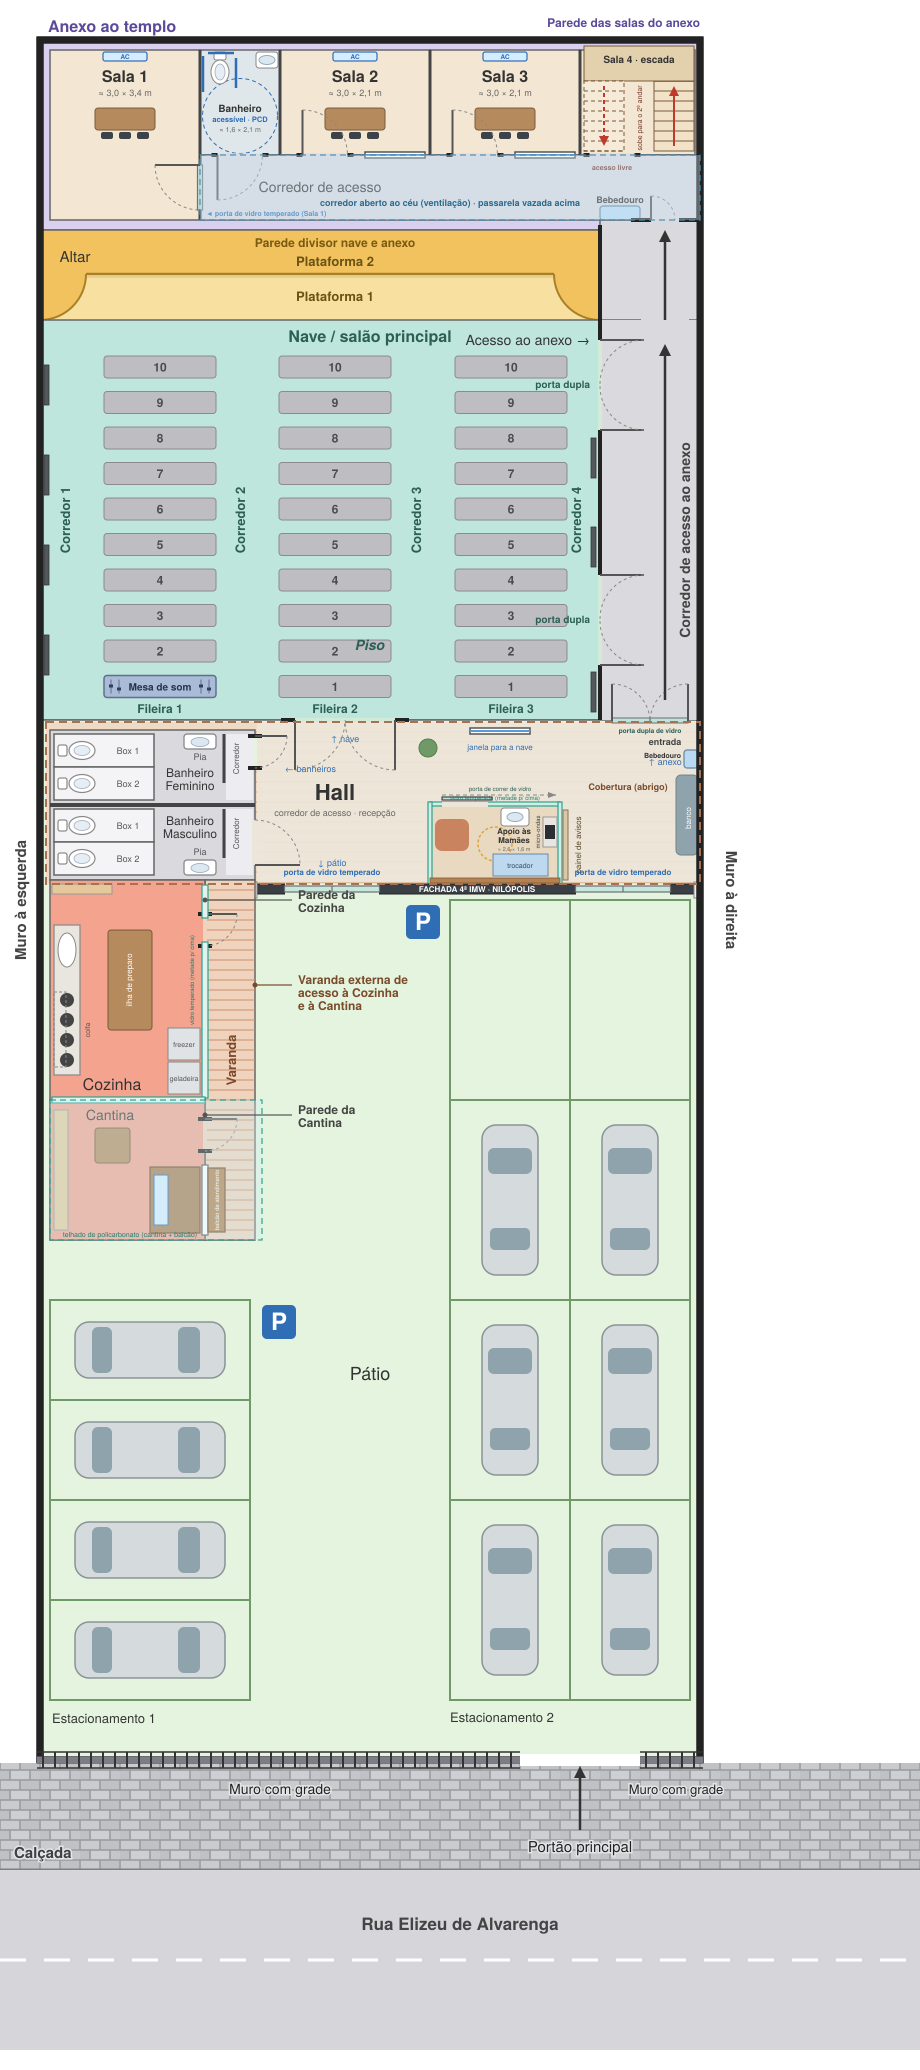
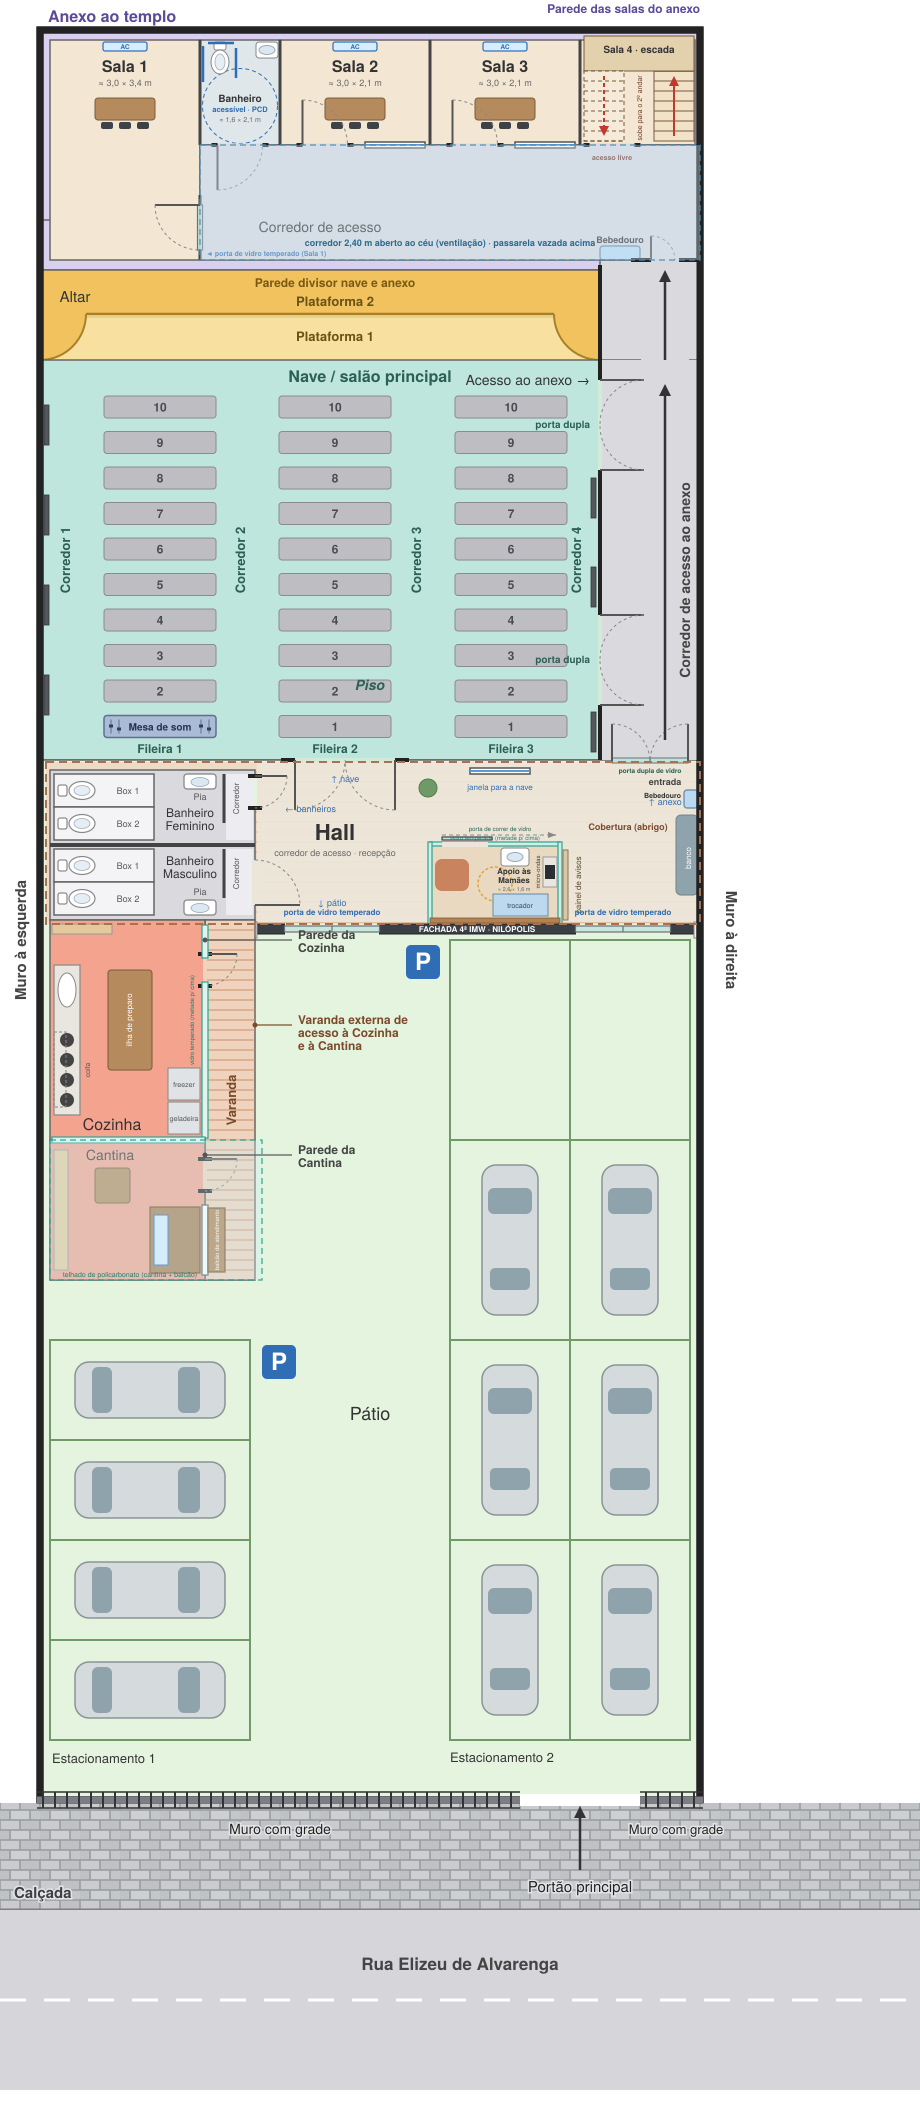
Maquete 3 etapa 49: corredor do anexo 2,40 m (salas recuadas) e 2o andar com paredes solidas na cor do terreo
Claude-Session: https://claude.ai/code/session_015gh4tS64wXyJ2ghbw66cFX

Changed region(s): [[0.0, 0.0, 1.0, 0.9585], [0.7913, 0.4019, 0.8217, 0.4638], [0.3957, 0.6493, 0.4261, 0.6802]]

diff --git a/projeto3/maquete.html b/projeto3/maquete.html
@@ -1025,10 +1025,23 @@
     car(780, 2015, Math.PI);      // lado oposto
   })();
 
+  // ---------- MAQUETE 3 (Etapa 49): corredor do anexo mais largo (1,40 m -> 2,40 m): as salas do anexo (térreo e 2º andar) recuam 1,00 m para o norte; nave e demais estruturas não mudam ----------
+  var DYP = 50, ZORIG = Z;
+  (function(){
+    var dyw = DYP * S, zlo = Z(30), zhi = Z(155) + 0.03, xlo = X(30), xhi = X(705);
+    root.children.slice().forEach(function(o){ var q = o.position; if (q.z >= zlo && q.z <= zhi && q.x >= xlo && q.x <= xhi && q.y < 4.5) q.z -= dyw; });
+    rect(40, 180, 700, 230, 0, 0.06, C.anexo, { cast: false });
+    rect(200, 105, 700, 155, 0.06, 0.04, C.corr, { cast: false });
+    rect(50, 105, 200, 155, 0.06, 0.04, C.salaAnexo, { cast: false });
+    vwall(200, 105, 155, BH);
+    vwall(40, -10, 40, BH, [], C.wall, 0.22); vwall(700, -10, 40, BH, [], C.wall, 0.22);
+  })();
+
   // ---------- MAQUETE 3: 2º ANDAR do anexo (x40..700, y40..225): Multiuso, WC, Biblioteca, Sala de Reuniões da Junta Diaconal, Copa e Recepção ----------
   (function(){
+    function Z(py){ return ZORIG(py - DYP); }   // coordenadas desta função = referência antiga do térreo (já recuada)
     var F = BH + 0.16, UH = 2.9, TOP = F + UH;
-    var dk = 0x23262a, wh = 0xf4f2ec, oak = 0xc4986a, walnut = 0x7a5a3a, steelc = 0xc9ced3;
+    var dk = 0x23262a, wh = C.wall, oak = 0xc4986a, walnut = 0x7a5a3a, steelc = 0xc9ced3;
     var frost = new THREE.MeshStandardMaterial({ color: 0xffffff, transparent: true, opacity: 0.62, roughness: 0.9 });
     var glowM = new THREE.MeshStandardMaterial({ color: 0xfff1c9, emissive: 0xffe2a8, emissiveIntensity: 0.9 });
     var rs = 7; function rnd(){ rs = (rs * 16807) % 2147483647; return rs / 2147483647; }
@@ -1038,45 +1051,36 @@
       if (horiz) box(len, yb - ya, th, color, X(mid), (ya + yb) / 2, Z(fixed), null, o); else box(th, yb - ya, len, color, X(fixed), (ya + yb) / 2, Z(mid), null, o);
     }
     function mull(horiz, fixed, a, b, ya, yb, step, th){ var n = Math.max(1, Math.round((b - a) * S / step)); for (var k = 0; k <= n; k++) ub(horiz, fixed, a + k * (b - a) / n, 0.05, ya, yb, th, dk); }
-    // paredes do 2º andar: 'ext' (faixa de vidro contínua), 'glass' (divisória de vidro com perfis pretos e faixa jateada), 'solid' (branca)
+    // paredes do 2º andar: mesma cor das salas do térreo (C.wall), sólidas; só as JANELAS são de vidro temperado (peitoril 1,10 m)
     function uwall(horiz, fixed, a1, a2, kind, gaps){
       gaps = (gaps || []).slice().sort(function(p, q){ return p.a - q.a; });
-      var th = kind === 'ext' ? 0.22 : kind === 'solid' ? 0.12 : 0.05;
-      function seg(a, b){
-        if (b - a <= 0.5) return;
-        var len = (b - a) * S, mid = (a + b) / 2;
-        if (kind === 'ext'){
-          ub(horiz, fixed, mid, len, F, F + 0.9, th, wh);
-          ub(horiz, fixed, mid, len, F + 0.9, TOP - 0.45, 0.04, 0, tempWinMat);
-          ub(horiz, fixed, mid, len, F + 0.9, F + 0.96, 0.12, dk); ub(horiz, fixed, mid, len, TOP - 0.51, TOP - 0.45, 0.12, dk);
-          mull(horiz, fixed, a, b, F + 0.9, TOP - 0.45, 1.8, 0.12);
-          ub(horiz, fixed, mid, len, TOP - 0.45, TOP, th, wh);
-        } else if (kind === 'solid'){ ub(horiz, fixed, mid, len, F, TOP, th, wh); }
-        else {
-          ub(horiz, fixed, mid, len, F, TOP, 0.03, 0, tempWinMat);
-          ub(horiz, fixed, mid, len, F + 1.15, F + 1.6, 0.036, 0, frost);
-          ub(horiz, fixed, mid, len, F, F + 0.05, th + 0.03, dk); ub(horiz, fixed, mid, len, TOP - 0.05, TOP, th + 0.03, dk);
-          mull(horiz, fixed, a, b, F, TOP, 1.3, th + 0.03);
-        }
-      }
+      var th = kind === 'ext' ? 0.22 : 0.12, met = 0x6b7075;
+      function seg(a, b){ if (b - a > 0.5) ub(horiz, fixed, (a + b) / 2, (b - a) * S, F, TOP, th, wh); }
       var cur = a1;
       gaps.forEach(function(g){
         seg(cur, g.a);
         var len = (g.b - g.a) * S, mid = (g.a + g.b) / 2;
-        if (kind === 'glass') ub(horiz, fixed, mid, len, F + 2.1, TOP, 0.03, 0, tempWinMat); else ub(horiz, fixed, mid, len, F + 2.1, TOP, th, wh);
-        ub(horiz, fixed, mid, len, F + 2.08, F + 2.14, 0.08, dk);
-        if (g.leaf === 'white'){ ub(horiz, fixed, mid, len - 0.04, F, F + 2.08, 0.04, wh); ub(horiz, fixed, mid + 0.3 / S, 0.03, F + 0.95, F + 1.25, 0.08, dk); }
-        else {
-          ub(horiz, fixed, mid, len - 0.04, F + 0.02, F + 2.08, 0.012, 0, tempWinMat);
-          [-1, 1].forEach(function(s){ ub(horiz, fixed, mid + s * (len / 2 - 0.02) / S, 0.04, F, F + 2.1, 0.05, dk); });
-          ub(horiz, fixed, mid, len, F, F + 0.05, 0.05, dk); ub(horiz, fixed, mid + 0.3 / S, 0.025, F + 0.9, F + 1.5, 0.07, steelc);
+        if (g.t === 'win'){
+          var y0 = F + 1.1, y1 = F + 2.3;
+          ub(horiz, fixed, mid, len, F, y0, th, wh); ub(horiz, fixed, mid, len, y1, TOP, th, wh);
+          ub(horiz, fixed, mid, len - 0.04, y0 + 0.03, y1 - 0.03, 0.012, 0, tempWinMat);
+          ub(horiz, fixed, mid, len, y0, y0 + 0.05, 0.08, met); ub(horiz, fixed, mid, len, y1 - 0.05, y1, 0.08, met);
+          [-1, 1].forEach(function(s){ ub(horiz, fixed, mid + s * (len / 2 - 0.025) / S, 0.05, y0, y1, 0.08, met); });
+          if (len > 0.9) ub(horiz, fixed, mid, 0.04, y0, y1, 0.08, met);
+          ub(horiz, fixed, mid, len + 0.1, y0 - 0.04, y0, th + 0.1, 0xb9bcbe);
+        } else {
+          ub(horiz, fixed, mid, len, F + 2.1, TOP, th, wh);
+          ub(horiz, fixed, mid, len - 0.04, F, F + 2.08, 0.04, walnut);
+          ub(horiz, fixed, mid + 0.3 / S, 0.03, F + 0.95, F + 1.1, 0.08, steelc);
         }
         cur = g.b;
       });
       seg(cur, a2);
     }
+    function W(c, w){ return { a: c - (w || 60) / 2, b: c + (w || 60) / 2, t: 'win' }; }
+    function D(a, b){ return { a: a, b: b, t: 'door' }; }
     // laje do piso (com o vão da escada) e acabamentos
-    var xa = X(40) - 0.11, xb = X(700) + 0.11, za = Z(40) - 0.11, zb = Z(225) + 0.09;
+    var xa = X(40) - 0.11, xb = X(700) + 0.11, za = Z(40) - 0.11, zb = Z(275) + 0.09;
     var hx0 = X(580) + 0.08, hx1 = hx0 + 0.8, hz1 = Z(155) - 0.08, hz0 = Z(40) + 0.11 + (hz1 - (Z(40) + 0.11) - 1.4);
     var xm = X(200) + 0.06, zs = Z(155) + 0.06, zp = Z(203);   // MAQUETE 3 (Etapa 45): o corredor do anexo (x200..700, y155..225) fica ABERTO (ventilação/iluminação); só passarela vazada
     [[xa, xm, za, zb], [xm, xb, za, hz0], [xm, hx0, hz0, zs], [hx1, xb, hz0, zs], [hx0, hx1, hz1, zs]].forEach(function(q){ box(q[1] - q[0], 0.12, q[3] - q[2], 0xd8d4cb, (q[0] + q[1]) / 2, F - 0.06, (q[2] + q[3]) / 2); });
@@ -1091,15 +1095,16 @@
       for (var gp = 0; gp <= 8; gp++) box(0.04, 1.1, 0.04, dk, gx0 + gp * gl / 8, F + 0.55, gz1);
     })();
     function fl(x1, y1, x2, y2, col){ box((x2 - x1) * S, 0.02, (y2 - y1) * S, col, X((x1 + x2) / 2), F + 0.01, Z((y1 + y2) / 2), null, { cast: false }); }
-    fl(40, 40, 200, 225, 0xc4986a); fl(200, 40, 280, 155, 0xcfd8dc); fl(280, 40, 430, 155, 0x9aa0a6); fl(430, 40, 580, 155, 0xa57c52);
-    fl(580, 40, 700, 81, 0xe3e1db); fl(624, 81, 700, 155, 0xe3e1db);
+    fl(40, 40, 200, 275, C.salaAnexo); fl(200, 40, 280, 155, 0xdfe7ea); fl(280, 40, 430, 155, C.salaAnexo); fl(430, 40, 580, 155, C.salaAnexo);
+    fl(580, 40, 700, 81, 0xe8d9c0); fl(624, 81, 700, 155, 0xe8d9c0);
     // paredes
-    uwall(true, 40, 40, 700, 'ext'); uwall(true, 225, 40, 200, 'ext'); uwall(false, 40, 40, 225, 'ext'); uwall(false, 700, 40, 155, 'ext');
-    uwall(false, 200, 40, 155, 'solid'); uwall(false, 200, 155, 225, 'glass', [{ a: 158, b: 203 }]);
-    uwall(true, 155, 200, 280, 'solid', [{ a: 217.5, b: 262.5, leaf: 'white' }]); uwall(false, 280, 40, 155, 'solid');
-    uwall(true, 155, 280, 430, 'glass', [{ a: 332.5, b: 377.5 }]); uwall(false, 430, 40, 155, 'glass');
-    uwall(true, 155, 430, 580, 'glass', [{ a: 482.5, b: 527.5 }]); uwall(false, 580, 40, 155, 'glass');
-    uwall(false, 624, 81, 155, 'glass'); uwall(true, 155, 624, 700, 'glass', [{ a: 632, b: 677 }]);
+    uwall(true, 40, 40, 700, 'ext', [W(85), W(155), W(240, 30), W(355), W(505), W(650)]);
+    uwall(false, 40, 40, 275, 'ext', [W(70), W(140), W(210)]); uwall(true, 275, 40, 200, 'ext', [W(85), W(155)]); uwall(false, 700, 40, 155, 'ext', [W(110)]);
+    uwall(false, 200, 40, 155, 'int'); uwall(false, 200, 155, 275, 'int', [D(158, 203)]);
+    uwall(true, 155, 200, 280, 'int', [D(217.5, 262.5)]); uwall(false, 280, 40, 155, 'int');
+    uwall(true, 155, 280, 430, 'int', [D(300, 345), W(395)]); uwall(false, 430, 40, 155, 'int');
+    uwall(true, 155, 430, 580, 'int', [D(450, 495), W(540)]); uwall(false, 580, 40, 155, 'int');
+    uwall(false, 624, 81, 155, 'int'); uwall(true, 155, 624, 700, 'int', [D(632, 677)]);
     // guarda-corpo de vidro no lado norte do vão da escada
     box(hx1 - hx0, 1.0, 0.03, 0, (hx0 + hx1) / 2, F + 0.5, hz0, null, { material: tempWinMat, cast: false }); box(hx1 - hx0, 0.04, 0.05, dk, (hx0 + hx1) / 2, F + 1.0, hz0);
     // cobertura moderna (some junto com o telhado): forro, laje com beiral, platibanda grafite, spots
@@ -1107,9 +1112,9 @@
       var ox1 = x1 - (nW ? 0.35 : 0), ox2 = x2 + (nE ? 0.35 : 0), oz1 = z1 - 0.35, oz2 = z2 + (nS ? 0.35 : 0), cxx = (ox1 + ox2) / 2, czz = (oz1 + oz2) / 2;
       box(x2 - x1, 0.1, z2 - z1, 0xffffff, (x1 + x2) / 2, TOP + 0.05, (z1 + z2) / 2, roofGroup, { cast: false });
       box(ox2 - ox1, 0.18, oz2 - oz1, 0xe9e6df, cxx, TOP + 0.19, czz, roofGroup);
-      box(ox2 - ox1, 0.32, 0.06, dk, cxx, TOP + 0.19, oz1, roofGroup); box(ox2 - ox1, 0.32, 0.06, dk, cxx, TOP + 0.19, oz2, roofGroup);
-      if (nW) box(0.06, 0.32, oz2 - oz1, dk, ox1, TOP + 0.19, czz, roofGroup);
-      if (nE) box(0.06, 0.32, oz2 - oz1, dk, ox2, TOP + 0.19, czz, roofGroup);
+      box(ox2 - ox1, 0.32, 0.06, 0xe4e0d6, cxx, TOP + 0.19, oz1, roofGroup); box(ox2 - ox1, 0.32, 0.06, 0xe4e0d6, cxx, TOP + 0.19, oz2, roofGroup);
+      if (nW) box(0.06, 0.32, oz2 - oz1, 0xe4e0d6, ox1, TOP + 0.19, czz, roofGroup);
+      if (nE) box(0.06, 0.32, oz2 - oz1, 0xe4e0d6, ox2, TOP + 0.19, czz, roofGroup);
     }
     cobertura(xa, xm, za, zb, true, true, true, false); cobertura(xm, xb, za, zs, false, false, false, true);
     [[85, 70], [85, 140], [85, 200], [160, 70], [160, 140], [160, 200], [240, 98], [320, 70], [390, 70], [320, 120], [390, 120], [470, 70], [540, 70], [470, 125], [540, 125], [602, 60], [660, 60], [660, 120]].forEach(function(q){
@@ -1155,7 +1160,7 @@
     // placa luminosa na fachada do Copa, voltada para a passarela
     var sgn = new THREE.Mesh(new THREE.PlaneGeometry(1.4, 0.34), new THREE.MeshBasicMaterial({ map: signTex('JUNTA DIACONAL · 2º ANDAR', 1024, 256, '#23262a', '#fff1c9', 80) })); sgn.position.set(X(662), F + 2.5, Z(155) + 0.07); root.add(sgn);
     // rótulos dos ambientes (aparecem com o botão Nomes)
-    label('Sala Multiuso', 120, 130, 5.4, 2.0); label('WC', 240, 98, 5.0, 0.9); label('Biblioteca', 355, 98, 5.4, 1.7); label('Sala de Reuniões', 505, 98, 5.4, 2.2); label('Copa', 662, 60, 5.0, 1.0); label('Passarela (corredor aberto)', 450, 178, 4.6, 2.6);
+    label('Sala Multiuso', 120, 80, 5.4, 2.0); label('WC', 240, 48, 5.0, 0.9); label('Biblioteca', 355, 48, 5.4, 1.7); label('Sala de Reuniões', 505, 48, 5.4, 2.2); label('Copa', 662, 10, 5.0, 1.0); label('Passarela (corredor aberto)', 450, 130, 4.6, 2.6);
   })();
 
   // ---------- Telhados ----------
@@ -1283,16 +1288,16 @@
     var lajeMat = new THREE.MeshStandardMaterial({ color: 0xffffff, roughness: 1, emissive: 0x8c8c88 });
     [[50, 200], [200, 280], [280, 430], [430, 580]].forEach(function(r){
       var cx = (r[0] + r[1]) / 2;
-      box((r[1] - r[0]) * S, 0.08, 105 * S, 0, X(cx), BH - 0.04, Z(102.5), forroGroup, { material: lajeMat, cast: false });
-      lampRound(cx, 100);
+      box((r[1] - r[0]) * S, 0.08, 105 * S, 0, X(cx), BH - 0.04, Z(102.5 - DYP), forroGroup, { material: lajeMat, cast: false });
+      lampRound(cx, 100 - DYP);
     });
     // MAQUETE 3: forro da Sala 4 com o vão da escada (lance oeste)
     (function(){
-      var xa = X(580), xb = X(695), zn = Z(50), zs = Z(155), hx1 = X(580) + 0.08, hx2 = hx1 + 0.8, hz0 = Z(40) + 0.11 + ((Z(155) - 0.08) - (Z(40) + 0.11) - 1.4);
+      var xa = X(580), xb = X(695), zn = Z(50 - DYP), zs = Z(155 - DYP), hx1 = X(580) + 0.08, hx2 = hx1 + 0.8, hz0 = Z(40 - DYP) + 0.11 + ((Z(155 - DYP) - 0.08) - (Z(40 - DYP) + 0.11) - 1.4);
       [[xa, xb, zn, hz0], [hx2, xb, hz0, zs], [xa, hx1, hz0, zs]].forEach(function(q){ box(q[1] - q[0], 0.08, q[3] - q[2], 0, (q[0] + q[1]) / 2, BH - 0.04, (q[2] + q[3]) / 2, forroGroup, { material: lajeMat, cast: false }); });
       lampRound(637, 100);
     })();
-    isopor(50, 155, 200, 220); lampRound(125, 188);   // MAQUETE 3 (Etapa 45): só a Sala 1 tem forro aí; o corredor do anexo (x200..700) é aberto ao céu
+    isopor(50, 105, 200, 220); lampRound(125, 188); lampRound(125, 130);   // MAQUETE 3 (Etapa 45): só a Sala 1 tem forro aí; o corredor do anexo (x200..700) é aberto ao céu
   })();
 
   // ---------- Árvores ----------
@@ -1319,7 +1324,7 @@
     labelGroup.add(sp);
   }
   label('Anexo ao templo', 370, 100, 6.4, 4.0);
-  label('Sala 1', 125, 100, 4.0, 1.7); label('Banheiro PCD', 240, 100, 3.4, 1.9); label('Sala 2', 355, 100, 4.0, 1.7); label('Sala 3', 505, 100, 4.0, 1.7); label('Sala 4 · escada', 637, 100, 4.0, 1.9); label('Bebedouro (anexo)', 620, 190, 4.0, 1.9);
+  label('Sala 1', 125, 50, 4.0, 1.7); label('Banheiro PCD', 240, 50, 3.4, 1.9); label('Sala 2', 355, 50, 4.0, 1.7); label('Sala 3', 505, 50, 4.0, 1.7); label('Sala 4 · escada', 637, 50, 4.0, 1.9); label('Bebedouro (anexo)', 620, 190, 4.0, 1.9);
   label('Altar', 160, 250, 2.6, 1.5); label('Plataforma 2', 335, 252, 2.3, 2.6); label('Plataforma 1', 335, 297, 1.6, 2.6);
   label('Bateria', 560, 255, 3.1, 1.5); label('Teclado', 110, 258, 3.0, 1.5); label('Guitarra', 262, 255, 3.0, 1.5); label('Baixo', 292, 255, 3.4, 1.3); label('Microfones', 375, 262, 3.0, 2.0);
   label('Piso da nave', 370, 560, 1.4, 2.6);
@@ -1373,22 +1378,22 @@
     { id: 'varanda', name: 'Varanda', g: 'Pátio (ambientes)', pos: [-2.8, 1.65, 0.0], tgt: [-2.8, 1.5, 7.0], roof: true, labels: false, fp: true },
     { id: 'a2geral', name: '2º andar · visão de cima', g: '2º andar', pos: [1.0, 16, -7.0], tgt: [0.6, 3.2, -15.6], roof: false, labels: true },
     { id: 'a2ext', name: '2º andar · volume externo', g: '2º andar', pos: [5.5, 9.5, -4.5], tgt: [0.5, 4.5, -15.0], roof: true, labels: false },
-    { id: 'a2cor', name: '2º andar · passarela vazada', g: '2º andar', pos: [-3.0, 4.75, -14.42], tgt: [6.2, 4.5, -14.42], roof: true, labels: false, fp: true },
-    { id: 'corabe', name: 'Anexo · corredor aberto ao céu', g: 'Anexo', pos: [-2.9, 1.65, -14.4], tgt: [4.5, 3.4, -14.4], roof: true, labels: false, fp: true },
-    { id: 'a2reun', name: '2º andar · Sala de Reuniões', g: '2º andar', pos: [1.5, 4.8, -16.1], tgt: [3.9, 4.3, -16.1], roof: true, labels: false, fp: true },
-    { id: 'a2bib', name: '2º andar · Biblioteca', g: '2º andar', pos: [0.9, 4.8, -14.9], tgt: [-1.0, 4.2, -16.8], roof: true, labels: false, fp: true },
-    { id: 'a2mult', name: '2º andar · Sala Multiuso', g: '2º andar', pos: [-3.6, 4.8, -14.2], tgt: [-5.4, 4.2, -16.6], roof: true, labels: false, fp: true },
-    { id: 'a2esc', name: '2º andar · chegada da escada', g: '2º andar', pos: [4.7, 4.8, -13.9], tgt: [4.7, 4.3, -15.6], roof: true, labels: false, fp: true },
+    { id: 'a2cor', name: '2º andar · passarela vazada', g: '2º andar', pos: [-3.0, 4.75, -15.42], tgt: [6.2, 4.5, -15.42], roof: true, labels: false, fp: true },
+    { id: 'corabe', name: 'Anexo · corredor aberto ao céu', g: 'Anexo', pos: [-2.9, 1.65, -14.9], tgt: [4.5, 3.4, -14.9], roof: true, labels: false, fp: true },
+    { id: 'a2reun', name: '2º andar · Sala de Reuniões', g: '2º andar', pos: [1.5, 4.8, -17.1], tgt: [3.9, 4.3, -17.1], roof: true, labels: false, fp: true },
+    { id: 'a2bib', name: '2º andar · Biblioteca', g: '2º andar', pos: [0.9, 4.8, -15.9], tgt: [-1.0, 4.2, -17.8], roof: true, labels: false, fp: true },
+    { id: 'a2mult', name: '2º andar · Sala Multiuso', g: '2º andar', pos: [-3.6, 4.8, -15.2], tgt: [-5.4, 4.2, -17.6], roof: true, labels: false, fp: true },
+    { id: 'a2esc', name: '2º andar · chegada da escada', g: '2º andar', pos: [4.7, 4.8, -14.9], tgt: [4.7, 4.3, -16.6], roof: true, labels: false, fp: true },
     { id: 'cozvidro', name: 'Cozinha (vidro, da varanda)', g: 'Pátio (ambientes)', pos: [-0.9, 1.7, 1.9], tgt: [-3.3, 1.9, 1.9], roof: true, labels: false, fp: true },
     { id: 'cantinaf', name: 'Cantina (balcão, da varanda)', g: 'Pátio (ambientes)', pos: [-0.8, 1.7, 5.2], tgt: [-3.3, 1.5, 6.0], roof: true, labels: false, fp: true },
     { id: 'cozinhae', name: 'Cozinha', g: 'Pátio (ambientes)', pos: [-3.5, 1.65, 0.5], tgt: [-6.0, 1.1, 3.4], roof: true, labels: false, fp: true },
     { id: 'cantinae', name: 'Cantina', g: 'Pátio (ambientes)', pos: [-3.5, 1.65, 4.3], tgt: [-6.2, 1.1, 6.4], roof: true, labels: false, fp: true },
-    { id: 'anexocorr', name: 'Corredor do anexo (leste-oeste)', g: 'Anexo', pos: [-5.8, 1.65, -14.24], tgt: [6.4, 1.5, -14.24], roof: true, labels: false, fp: true },
-    { id: 'sala1a', name: 'Sala 1 (anexo)', g: 'Anexo', pos: [-3.8, 1.65, -15.04], tgt: [-6.2, 1.3, -16.5], roof: true, labels: false, fp: true },
-    { id: 'wcanexo', name: 'Banheiro acessível (anexo)', g: 'Anexo', pos: [-2.0, 1.65, -15.04], tgt: [-3.1, 1.1, -16.6], roof: true, labels: false, fp: true },
-    { id: 'sala2a', name: 'Sala 2 (anexo)', g: 'Anexo', pos: [0.7, 1.65, -15.04], tgt: [-1.5, 1.3, -16.5], roof: true, labels: false, fp: true },
-    { id: 'apoiofp', name: 'Sala 4 · escada (anexo)', g: 'Anexo', pos: [4.9, 1.65, -15.15], tgt: [5.9, 1.3, -16.9], roof: true, labels: false, fp: true },
-    { id: 'sala3a', name: 'Sala 3 (anexo)', g: 'Anexo', pos: [3.8, 1.65, -15.04], tgt: [1.5, 1.3, -16.5], roof: true, labels: false, fp: true },
+    { id: 'anexocorr', name: 'Corredor do anexo (leste-oeste)', g: 'Anexo', pos: [-5.8, 1.65, -14.64], tgt: [6.4, 1.5, -14.64], roof: true, labels: false, fp: true },
+    { id: 'sala1a', name: 'Sala 1 (anexo)', g: 'Anexo', pos: [-3.8, 1.65, -16.04], tgt: [-6.2, 1.3, -17.5], roof: true, labels: false, fp: true },
+    { id: 'wcanexo', name: 'Banheiro acessível (anexo)', g: 'Anexo', pos: [-2.0, 1.65, -16.04], tgt: [-3.1, 1.1, -17.6], roof: true, labels: false, fp: true },
+    { id: 'sala2a', name: 'Sala 2 (anexo)', g: 'Anexo', pos: [0.7, 1.65, -16.04], tgt: [-1.5, 1.3, -17.5], roof: true, labels: false, fp: true },
+    { id: 'apoiofp', name: 'Sala 4 · escada (anexo)', g: 'Anexo', pos: [4.9, 1.65, -16.15], tgt: [5.9, 1.3, -17.9], roof: true, labels: false, fp: true },
+    { id: 'sala3a', name: 'Sala 3 (anexo)', g: 'Anexo', pos: [3.8, 1.65, -16.04], tgt: [1.5, 1.3, -17.5], roof: true, labels: false, fp: true },
   ];
   var bar = document.getElementById('views');
   var anim = null, current = 'geral';
